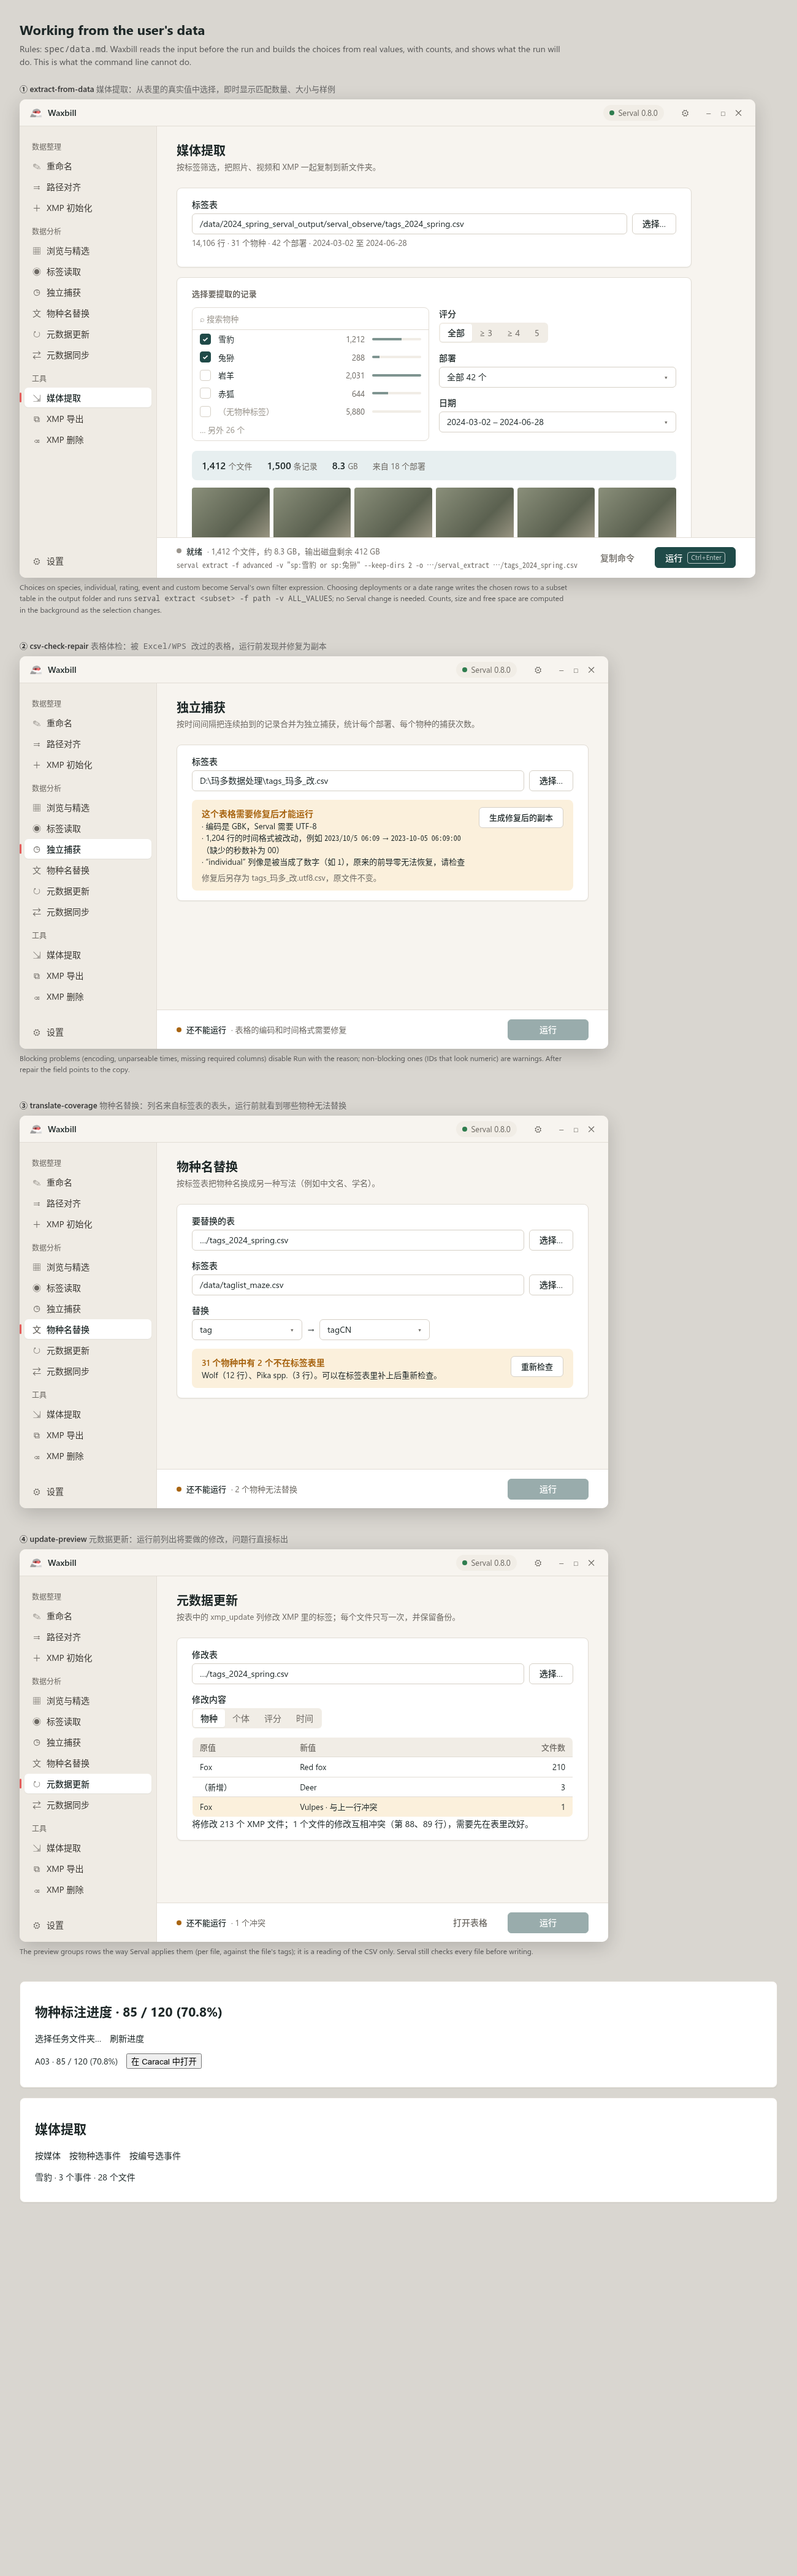
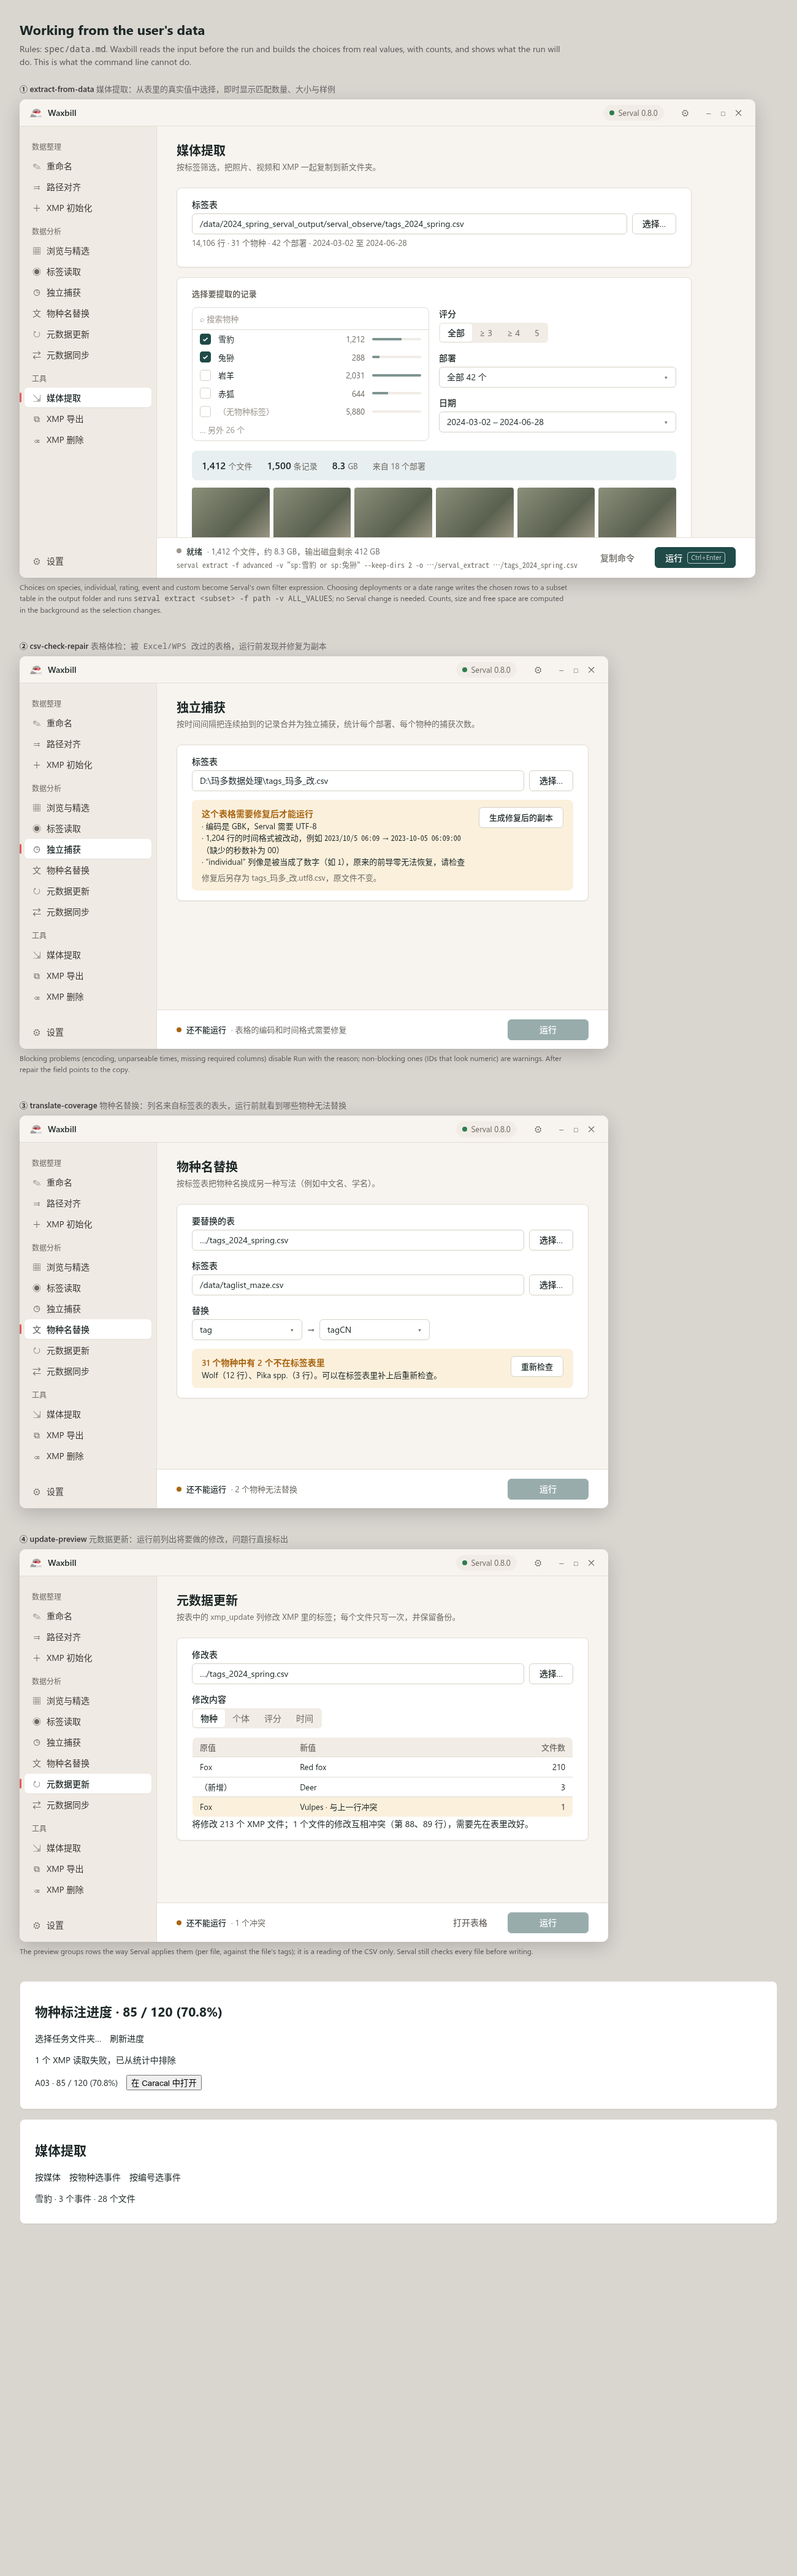
Exclude unreadable sidecars and digiKam captures from volunteer progress

Changed region(s): [[0.0308, 0.7798, 0.9846, 0.8733]]

diff --git a/Design/boards/data.html b/Design/boards/data.html
@@ -135,7 +135,7 @@
 </div>
 
 <script src="components.js"></script>
-<section class="card" data-state="volunteer-progress"><h2>物种标注进度 · 85 / 120 (70.8%)</h2><p>选择任务文件夹…　刷新进度</p><p>A03 · 85 / 120 (70.8%)　<button>在 Caracal 中打开</button></p></section>
+<section class="card" data-state="volunteer-progress"><h2>物种标注进度 · 85 / 120 (70.8%)</h2><p>选择任务文件夹…　刷新进度</p><p>1 个 XMP 读取失败，已从统计中排除</p><p>A03 · 85 / 120 (70.8%)　<button>在 Caracal 中打开</button></p></section>
 <section class="card" data-state="extract-events"><h2>媒体提取</h2><p>按媒体　按物种选事件　按编号选事件</p><p>雪豹 · 3 个事件 · 28 个文件</p></section>
 </body>
 </html>

diff --git a/src/progress_cache.rs b/src/progress_cache.rs
@@ -14,6 +14,7 @@ pub struct Snapshot {
     pub table: PathBuf,
     pub changed: usize,
     pub removed: usize,
+    pub failed: usize,
     pub scanned_at: SystemTime,
 }
 
@@ -39,6 +40,8 @@ impl Stamp {
 
 #[derive(Serialize, Deserialize)]
 struct Index {
+    #[serde(default)]
+    failed: Option<BTreeSet<PathBuf>>,
     scanned_at: SystemTime,
     files: BTreeMap<PathBuf, Stamp>,
 }
@@ -177,6 +180,8 @@ fn enumerate(root: &Path) -> io::Result<BTreeMap<PathBuf, Stamp>> {
     let mut files = BTreeMap::new();
     let mut folders = vec![root.to_owned()];
     while let Some(folder) = folders.pop() {
+        let mut videos = BTreeSet::new();
+        let mut sidecars = Vec::new();
         for entry in folder
             .read_dir()
             .map_err(|e| io::Error::other(format!("{}: {e}", folder.display())))?
@@ -192,17 +197,56 @@ fn enumerate(root: &Path) -> io::Result<BTreeMap<PathBuf, Stamp>> {
             let path = entry.path();
             if ty.is_dir() {
                 folders.push(path);
-            } else if ty.is_file()
-                && path
-                    .extension()
-                    .is_some_and(|ext| ext.eq_ignore_ascii_case("xmp"))
-            {
-                utf8(&path)?;
-                files.insert(path.clone(), Stamp::read(&path)?);
+            } else if ty.is_file() {
+                let name = entry.file_name();
+                let Some(name) = name.to_str() else {
+                    if path
+                        .extension()
+                        .is_some_and(|ext| ext.eq_ignore_ascii_case("xmp"))
+                    {
+                        utf8(&path)?;
+                    }
+                    continue;
+                };
+                let Some((stem, ext)) = name.rsplit_once('.') else {
+                    continue;
+                };
+                let media = if ext.eq_ignore_ascii_case("xmp") {
+                    sidecars.push(path);
+                    stem
+                } else {
+                    name
+                };
+                if let Some((_, ext)) = media.rsplit_once('.')
+                    && matches!(ext.to_ascii_lowercase().as_str(), "mp4" | "avi" | "mov")
+                {
+                    // digiKam uses QFileInfo::baseName(), up to the first dot.
+                    videos.insert(media.split('.').next().unwrap().to_owned());
+                }
+            }
+        }
+        for path in sidecars {
+            let screenshot = path
+                .file_stem()
+                .and_then(|s| s.to_str())
+                .and_then(|name| name.rsplit_once('.'))
+                .filter(|(_, ext)| ext.eq_ignore_ascii_case("jpg"))
+                .and_then(|(stem, _)| stem.rsplit_once('-'))
+                .is_some_and(|(base, ms)| {
+                    videos.contains(base) && ms.parse::<u32>().is_ok_and(|n| n.to_string() == ms)
+                });
+            if !screenshot {
+                let stamp = Stamp::read(&path)?;
+                files.insert(path, stamp);
             }
         }
     }
     Ok(files)
+}
+
+struct Observation {
+    table: PathBuf,
+    failed: BTreeSet<PathBuf>,
 }
 
 fn observe(
@@ -210,7 +254,7 @@ fn observe(
     root: &Path,
     changed: &BTreeSet<&PathBuf>,
     stage: &Path,
-) -> io::Result<PathBuf> {
+) -> io::Result<Observation> {
     let manifest = stage.join("paths.csv");
     let mut writer = csv::Writer::from_path(&manifest)?;
     writer.write_record(["path"])?;
@@ -231,6 +275,7 @@ fn observe(
         .stdout(Stdio::null())
         .stderr(Stdio::piped())
         .spawn()?;
+    let mut failed = BTreeSet::new();
     let mut detail = String::new();
     let mut failure = None;
     let stderr = child.stderr.take().expect("piped stderr");
@@ -244,7 +289,11 @@ fn observe(
         };
         if let Ok(event) = serde_json::from_str::<serde_json::Value>(&line) {
             let message = event["message"].as_str().unwrap_or(&line);
-            // List-mode observe exits unsuccessfully on an unreadable sidecar.
+            if event["serval"] == "file_error" {
+                if let Some(path) = event["path"].as_str() {
+                    failed.insert(PathBuf::from(path));
+                }
+            }
             if event["serval"] == "error" {
                 failure.get_or_insert_with(|| message.to_string());
             }
@@ -278,22 +327,29 @@ fn observe(
             table = Some(entry.path());
         }
     }
-    table.ok_or_else(|| io::Error::other("Serval produced no tags table"))
+    Ok(Observation {
+        table: table.ok_or_else(|| io::Error::other("Serval produced no tags table"))?,
+        failed,
+    })
 }
 
 fn merge(
     table: &Path,
     previous: Option<&Path>,
-    delta: Option<&Path>,
+    delta: Option<&Observation>,
     files: &BTreeMap<PathBuf, Stamp>,
     changed: &BTreeSet<&PathBuf>,
 ) -> io::Result<()> {
+    let failed = delta.map(|d| &d.failed);
+    if failed.is_some_and(|paths| paths.iter().any(|p| !changed.contains(p))) {
+        return Err(io::Error::other("Unexpected failed path in Serval output"));
+    }
     let mut header = None;
     let mut rows: BTreeMap<PathBuf, Vec<StringRecord>> = BTreeMap::new();
     for (path, is_delta) in previous
         .map(|p| (p, false))
         .into_iter()
-        .chain(delta.map(|p| (p, true)))
+        .chain(delta.map(|d| (d.table.as_path(), true)))
     {
         let mut reader = csv::Reader::from_path(path)?;
         let columns = reader.headers()?.clone();
@@ -324,7 +380,9 @@ fn merge(
             }
         }
     }
-    if rows.len() != files.len() {
+    if rows.len() + failed.map_or(0, BTreeSet::len) != files.len()
+        || failed.is_some_and(|paths| paths.iter().any(|p| rows.contains_key(p)))
+    {
         return Err(io::Error::other("Tags table is missing requested sidecars"));
     }
     let mut writer = csv::Writer::from_path(table)?;
@@ -354,7 +412,7 @@ impl Drop for Staging {
 
 fn refresh_task(
     task: &Task,
-    read_changes: impl FnOnce(&Path, &BTreeSet<&PathBuf>, &Path) -> io::Result<PathBuf>,
+    read_changes: impl FnOnce(&Path, &BTreeSet<&PathBuf>, &Path) -> io::Result<Observation>,
 ) -> io::Result<Snapshot> {
     let _lock = task.lock()?;
     let previous = task.previous()?;
@@ -362,7 +420,13 @@ fn refresh_task(
     let before = previous.as_ref().map(|(_, _, index)| &index.files);
     let changed: BTreeSet<_> = files
         .iter()
-        .filter(|(p, s)| before.and_then(|b| b.get(*p)) != Some(*s))
+        .filter(|(p, s)| {
+            previous
+                .as_ref()
+                .and_then(|(_, _, i)| i.failed.as_ref())
+                .is_none_or(|failed| failed.contains(*p))
+                || before.and_then(|b| b.get(*p)) != Some(*s)
+        })
         .map(|(p, _)| p)
         .collect();
     let removed = before.map_or(0, |b| b.keys().filter(|p| !files.contains_key(*p)).count());
@@ -373,6 +437,7 @@ fn refresh_task(
         return Ok(Snapshot {
             table: table.clone(),
             changed: 0,
+            failed: 0,
             removed,
             scanned_at: SystemTime::now(),
         });
@@ -404,20 +469,29 @@ fn refresh_task(
     merge(
         &completed.join("tags.csv"),
         previous.as_ref().map(|(_, p, _)| p.as_path()),
-        delta.as_deref(),
+        delta.as_ref(),
         &files,
         &changed,
     )?;
     let dir = task.dir.join(format!("snapshot-{number}"));
     let scanned_at = SystemTime::now();
+    let failed = delta.map(|d| d.failed).unwrap_or_default();
     let result = Snapshot {
         table: dir.join("tags.csv"),
-        changed: changed.len(),
+        changed: changed.len() - failed.len(),
+        failed: failed.len(),
         removed,
         scanned_at,
     };
     let mut writer = BufWriter::new(File::create(completed.join("index.json"))?);
-    serde_json::to_writer(&mut writer, &Index { scanned_at, files })?;
+    serde_json::to_writer(
+        &mut writer,
+        &Index {
+            scanned_at,
+            files,
+            failed: Some(failed),
+        },
+    )?;
     writer.flush()?;
     writer.get_ref().sync_all()?;
     drop(writer);
@@ -491,18 +565,34 @@ mod tests {
         let b = task.root.join("b.jpg.XMP");
         fs::write(&a, "Fox,Pika").unwrap();
         fs::write(&b, "").unwrap();
-        let read = |_: &Path, paths: &BTreeSet<&PathBuf>, stage: &Path| -> io::Result<PathBuf> {
-            let table = stage.join("out.csv");
-            let mut writer = csv::Writer::from_path(&table)?;
-            writer.write_record(["path", "species"])?;
-            for p in paths {
-                for s in fs::read_to_string(p)?.split(',') {
-                    writer.write_record([utf8(p)?, s])?;
+        let read =
+            |_: &Path, paths: &BTreeSet<&PathBuf>, stage: &Path| -> io::Result<Observation> {
+                let table = stage.join("out.csv");
+                let mut writer = csv::Writer::from_path(&table)?;
+                writer.write_record(["path", "species"])?;
+                for p in paths {
+                    for s in fs::read_to_string(p)?.split(',') {
+                        writer.write_record([utf8(p)?, s])?;
+                    }
                 }
-            }
-            writer.flush()?;
-            Ok(table)
-        };
+                writer.flush()?;
+                Ok(Observation {
+                    table,
+                    failed: BTreeSet::new(),
+                })
+            };
+        fs::write(task.root.join("clip.part.MP4"), "").unwrap();
+        fs::write(task.root.join("clip-6200.jpg.XMP"), "screenshot").unwrap();
+        let keep = task.root.join("clip_6200.jpg.xmp");
+        fs::write(&keep, "").unwrap();
+        let unmatched = task.root.join("other-6200.jpg.xmp");
+        fs::write(&unmatched, "").unwrap();
+        let inventory = enumerate(&task.root).unwrap();
+        assert_eq!(inventory.len(), 4);
+        assert!(inventory.contains_key(&keep));
+        assert!(inventory.contains_key(&unmatched));
+        fs::remove_file(keep).unwrap();
+        fs::remove_file(unmatched).unwrap();
         let first = refresh_task(&task, read).unwrap();
         assert_eq!(first.changed, 2);
         let untouched = refresh_task(&task, |_, _, _| panic!("unexpected observe")).unwrap();
@@ -576,8 +666,16 @@ mod integration {
             ["Fox".to_string(), "Snow leopard".to_string()].into()
         );
         fs::write(&file, "broken").unwrap();
-        assert!(scan().is_err());
-        assert_eq!(task.previous().unwrap().unwrap().1, updated.table);
+        fs::write(root.join("other.jpg.xmp"), xmp.replace("Fox", "Pika")).unwrap();
+        let partial = scan().unwrap();
+        assert_eq!((partial.changed, partial.failed), (1, 1));
+        let mut rows = csv::Reader::from_path(partial.table).unwrap();
+        let records = rows.records().collect::<Result<Vec<_>, _>>().unwrap();
+        assert_eq!(records.len(), 1);
+        assert_eq!(&records[0][col], "Pika");
+        assert_eq!(scan().unwrap().failed, 1);
+        fs::write(&file, xmp).unwrap();
+        assert_eq!(scan().unwrap().changed, 1);
         fs::remove_dir_all(dir).unwrap();
     }
 }

diff --git a/src/progress.rs b/src/progress.rs
@@ -10,6 +10,7 @@ use gpui_kit::component::{
     button::{Button, ButtonVariants as _},
     h_flex, v_flex,
 };
+use gpui_kit::prelude::FluentBuilder;
 use gpui_kit::*;
 use std::collections::{BTreeMap, BTreeSet};
 use std::path::{Path, PathBuf};
@@ -60,6 +61,7 @@ struct Results {
     tree: Folder,
     changed: usize,
     removed: usize,
+    failed: usize,
     scanned_at: SystemTime,
 }
 impl Results {
@@ -68,6 +70,7 @@ impl Results {
         table: PathBuf,
         changed: usize,
         removed: usize,
+        failed: usize,
         scanned_at: SystemTime,
     ) -> Result<Self, String> {
         let csv = Csv::read(&table)?;
@@ -97,6 +100,7 @@ impl Results {
             tree,
             changed,
             removed,
+            failed,
             scanned_at,
         })
     }
@@ -146,7 +150,7 @@ impl Progress {
     pub fn example(&mut self, path: &Path, cx: &mut Context<Self>) {
         let root = PathBuf::from("/data");
         self.root = Some(root.clone());
-        self.results = Results::read(root, path.to_owned(), 3, 0, SystemTime::now()).ok();
+        self.results = Results::read(root, path.to_owned(), 3, 0, 1, SystemTime::now()).ok();
         cx.notify();
     }
     fn refresh(&mut self, root: PathBuf, cx: &mut Context<Self>) {
@@ -188,6 +192,7 @@ impl Progress {
                 snapshot.table,
                 snapshot.changed,
                 snapshot.removed,
+                snapshot.failed,
                 snapshot.scanned_at,
             )
             .map(|data| (Some(data), snapshot.scanned_at))
@@ -382,6 +387,16 @@ impl Render for Progress {
                         results.removed,
                         t("个文件已移除", "files removed")
                     ))
+                    .when(results.failed > 0, |card| {
+                        card.child(format!(
+                            "{} {}",
+                            results.failed,
+                            t(
+                                "个 XMP 读取失败，已从统计中排除",
+                                "unreadable XMP files excluded"
+                            )
+                        ))
+                    })
                     .children(rows),
             );
         }
@@ -426,7 +441,8 @@ mod tests {
                 .unwrap();
         }
         writer.flush().unwrap();
-        let data = Results::read(dir.clone(), table, 2, 0, std::time::SystemTime::now()).unwrap();
+        let data =
+            Results::read(dir.clone(), table, 2, 0, 0, std::time::SystemTime::now()).unwrap();
         assert_eq!(
             (data.tree.files, data.tree.labeled, data.csv.rows.len()),
             (2, 1, 3)

diff --git a/ROADMAP.md b/ROADMAP.md
@@ -15,7 +15,7 @@ Rules:
 
 - [x] Terminal-friendly copied commands and whole-event extraction by species or ID.
 
-- [x] Tools → 标注进度 scans a task folder incrementally, shows a folder tree and opens its current selection in Caracal. Read tags also accepts path lists from CSV. See Design/spec/volunteer-progress.md.
+- [x] Tools → 标注进度 scans a task folder incrementally, excludes unreadable sidecars and paired digiKam frame captures, shows a folder tree and opens its current selection in Caracal. Read tags also accepts path lists from CSV. See Design/spec/volunteer-progress.md.
 
 ### Completed
 - [x] Created initial project specification and working plan.
